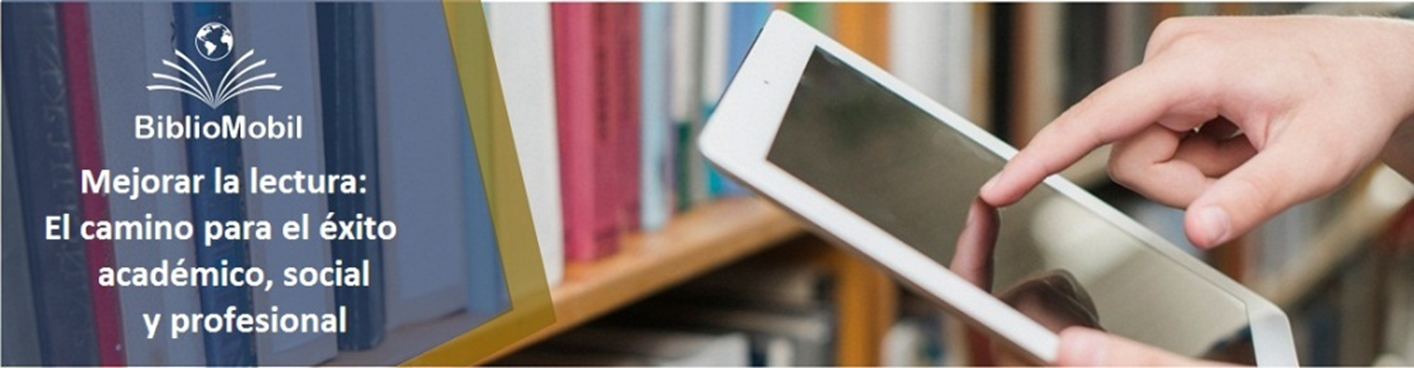
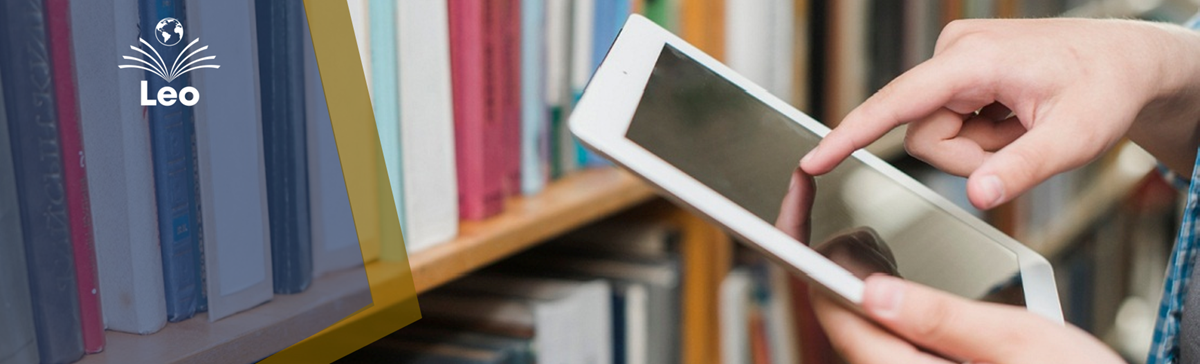
OK!

diff --git a/src/view/acercaDe/AcercaDe.jsx b/src/view/acercaDe/AcercaDe.jsx
@@ -57,11 +57,11 @@ export default function AcercaDe() {
             </h3>
             <br />
             <p>
-           <b> Hay una ley universal del desarrollo: todo progreso y bienestar de una sociedad, depende de la calidad de la educación que recibe su población.</b> Por ello, los países más desarrollados, tienen como prioridad contar con sistemas educativos modernos y eficientes, que fortalezcan los conocimientos y la competitividad de sus habitantes. Así lo demuestran las pruebas internacionales PISA de la OCDE, que ubican en los primeros lugares a países de altos ingresos con los mejores sistemas educativos del mundo: Singapur, Canadá, China, Finlandia, Hong Kong, Estonia, Japón y Corea del Sur.            </p>
+            Hay una ley universal del desarrollo: todo progreso y bienestar de una sociedad, depende de la calidad de la educación que recibe su población. Por ello, los países más desarrollados, tienen como prioridad contar con sistemas educativos modernos y eficientes, que fortalezcan los conocimientos y la competitividad de sus habitantes. Así lo demuestran las pruebas internacionales PISA de la OCDE, que ubican en los primeros lugares a países de altos ingresos con los mejores sistemas educativos del mundo: Singapur, Canadá, China, Finlandia, Hong Kong, Estonia, Japón y Corea del Sur.            </p>
             <p>
-            <b>LEO - Club Mundial de Lectura,</b> es un proyecto social que tiene como misión promover la lectura, la escritura y el multilingüismo, como hábitos que mejoran el nivel educativo y cultural de las personas, y fortalecen sus competencias comunicativas, necesarias para tener éxito en su actividad académica y en la moderna sociedad integrada a nivel mundial por la internet, que exige leer y aprovechar cantidades crecientes de información, y escribir contenidos claros y convincentes para millones de personas en todo el mundo.            </p>
+            LEO - Club Mundial de Lectura, es un proyecto social que tiene como misión promover la lectura, la escritura y el multilingüismo, como hábitos que mejoran el nivel educativo y cultural de las personas, y fortalecen sus competencias comunicativas, necesarias para tener éxito en su actividad académica y en la moderna sociedad integrada a nivel mundial por la internet, que exige leer y aprovechar cantidades crecientes de información, y escribir contenidos claros y convincentes para millones de personas en todo el mundo.            </p>
             <p>
-            Para cumplir esta misión, <b>LEO</b> opera como una red digital mundial, que integra a las personas de todos los países para fortalecer sus competencias comunicativas, y generar oportunidades de ingreso permanentes que mejoren su calidad de vida
+            Para cumplir esta misión, LEO opera como una red digital mundial, que integra a las personas de todos los países para fortalecer sus competencias comunicativas, y generar oportunidades de ingreso permanentes que mejoren su calidad de vida
             </p>
             <br />
 
@@ -73,7 +73,7 @@ export default function AcercaDe() {
             <br />      
             <p>
             • Facilitar el acceso a los libros e incrementar los índices de lectura, para lograr que todas las personas lean al menos un libro al mes, doce libros al año. <br />
-            • Ofrecer escenarios para que los <b>Socios LEO</b> escriban y publiquen sus obras en los diferentes géneros, dándolas a conocer en el país y el mundo. <br />
+            • Ofrecer escenarios para que los Socios LEO escriban y publiquen sus obras en los diferentes géneros, dándolas a conocer en el país y el mundo. <br />
             • Promover el multilingüismo y las competencias comunicativas de las personas, para mejorar sus posibilidades de participación y éxito en la moderna sociedad tecnológica, a través de internet. <br />
             • Fortalecer a las familias y las instituciones educativas como escenarios básicos para inculcar el hábito de lecto-escritura en los estudiantes.
 
@@ -99,7 +99,7 @@ export default function AcercaDe() {
                 </div> 
                 <br />
                 <p>
-                <b>Pueden ser socios del Club Mundial de Lectura</b> todas las personas y los <b>estudiantes en cualquier país del  mundo.</b> Los menores de edad deberán contar con autorización y tutoría de sus padres o acudientes, anexando el formato de autorización de vinculación. <br />
+                Pueden ser socios del Club Mundial de Lectura todas las personas y los estudiantes en cualquier país del  mundo. Los menores de edad deberán contar con autorización y tutoría de sus padres o acudientes, anexando el formato de autorización de vinculación. <br />
                 La membrecía anual tiene un costo de solo US$50. Los socios tienen acceso libre, permanente y gratuito a las 15.000 obras de literatura y ciencias sociales en cinco idiomas de nuestra biblioteca y a los demás programas educativos y culturales del Club (publicar obras, taller literario, etc.)
 
             </p>
@@ -112,7 +112,7 @@ export default function AcercaDe() {
             </b> 
             </h3>
             <br />
-            <p> <b>LEO</b> ha desarrollado un paquete de herramientas pedagógicas con tecnologías web, que permiten en forma eficiente y económica promover y masificar la lectura, la escritura y el multilingüismo como competencias clave para mejorar el desempeño académico y lograr que las personas aprovechen las oportunidades de contactos, educación y negocios que ofrece internet a nivel mundial:
+            <p> LEO ha desarrollado un paquete de herramientas pedagógicas con tecnologías web, que permiten en forma eficiente y económica promover y masificar la lectura, la escritura y el multilingüismo como competencias clave para mejorar el desempeño académico y lograr que las personas aprovechen las oportunidades de contactos, educación y negocios que ofrece internet a nivel mundial:
             </p>
            
 
@@ -121,13 +121,13 @@ export default function AcercaDe() {
             </h4> 
             <br />  
             <p>
-            <b>LEO</b> ofrece a sus socios una biblioteca digital con más de 15.000 obras de ciencias sociales y literatura en 5 idiomas (español, inglés, francés, portugués e italiano). Mensualmente, se adicionan 50 nuevas obras, 600 nuevos libros al año. Los socios pueden descargar clubleo.net a su celular, tablet o pc, para facilitar el acceso a las obras. El costo de la colección bibliográfica está calculado en US$150.000, pero es gratis para los socios LEO. (Ver Catálogo) <br />
+            LEO ofrece a sus socios una biblioteca digital con más de 15.000 obras de ciencias sociales y literatura en 5 idiomas (español, inglés, francés, portugués e italiano). Mensualmente, se adicionan 50 nuevas obras, 600 nuevos libros al año. Los socios pueden descargar clubleo.net a su celular, tablet o pc, para facilitar el acceso a las obras. El costo de la colección bibliográfica está calculado en US$150.000, pero es gratis para los socios LEO. (Ver Catálogo) <br />
             Los socios que viven en zonas rurales y marginales sin conexión a internet, pueden descargar y grabar las obras en su PC, celular o tablet para su lectura y trabajo sin necesidad de internet. <br />
             Adicionalmente, LEO ha desarrollado el portal web letsallread.com, que ofrece artículos sobre los géneros, autores y obras más importantes, con el propósito de informar, motivar y orientar las actividades de lectura y escritura que realizan nuestros socios.
 
             </p>
 
-            <div align="center">
+            <div className="container_bannernos"  align="center">
                 <img
                 id="imagenajustada"
                 className="d-block w-100"
@@ -136,6 +136,10 @@ export default function AcercaDe() {
                 height="450"
                 alt="..."
                 />
+                <p> <b>Mejorar la lectura; <br />
+                el camino para el éxito acádemico <br />
+                social y profesional</b>
+                </p>
                 </div>
             <br />
             <h4 id="titulo" align="left"> <b>2. Promoción de la escritura<br />

diff --git a/src/view/uniscitiANoi/UniscitiANoi.jsx b/src/view/uniscitiANoi/UniscitiANoi.jsx
@@ -79,12 +79,12 @@ export default function UniscitiANoi() {
 
             <br />
             <p>
-            1. Quando ci iscriviamo come partner, creiamo il nostro nome utente e password; il programma crea automaticamente "Il mio account" per tenere traccia dei nostri ospiti e delle entrate in tempo reale.
-            2. Invitiamo i nostri conoscenti ad entrare come membri LEO, fornendo loro il nostro nome utente o inviando loro ai loro social network il link personale che il sistema genera per noi
-            3. Al momento dell'ingresso, gli ospiti registrano il nostro nome utente; e il sistema li accumula nel nostro account, fino a completare i 20 richiesti. Dopodiché, l'elenco si chiude e non saremo in grado di continuare a invitare altre persone.
-            4. Nella prima fase, al completamento dei 20 ospiti, riceveremo un deposito di US $ 100 sul nostro conto
-            5. Nella seconda fase, quando i nostri 20 partner completeranno ciascuno i loro 20 ospiti, riceveremo un reddito di 3.200 USD
-            6. Nella terza fase, quando i nuovi membri invitano i loro 20 amici, riceveremo 96.000 USD, ovvero una media mensile di 8.275 USD
+            1. Quando ci iscriviamo come partner, creiamo il nostro nome utente e password; il programma crea automaticamente "Il mio account" per tenere traccia dei nostri ospiti e delle entrate in tempo reale. <br />
+            2. Invitiamo i nostri conoscenti ad entrare come membri LEO, fornendo loro il nostro nome utente o inviando loro ai loro social network il link personale che il sistema genera per noi. <br />
+            3. Al momento dell'ingresso, gli ospiti registrano il nostro nome utente; e il sistema li accumula nel nostro account, fino a completare i 20 richiesti. Dopodiché, l'elenco si chiude e non saremo in grado di continuare a invitare altre persone. <br />
+            4. Nella prima fase, al completamento dei 20 ospiti, riceveremo un deposito di US $ 100 sul nostro conto. <br />
+            5. Nella seconda fase, quando i nostri 20 partner completeranno ciascuno i loro 20 ospiti, riceveremo un reddito di 3.200 USD. <br />
+            6. Nella terza fase, quando i nuovi membri invitano i loro 20 amici, riceveremo 96.000 USD, ovvero una media mensile di 8.275 USD. <br />
 
             </p>
             <p>

diff --git a/src/view/chiSiamo/ChiSiamo.jsx b/src/view/chiSiamo/ChiSiamo.jsx
@@ -128,7 +128,7 @@ export default function AcercaDe() {
             Inoltre, LEO ha sviluppato il portale web letsallread.com, che offre articoli sui generi, gli autori e le opere più importanti, con lo scopo di informare, motivare e guidare le attività di lettura e scrittura svolte dai nostri membri.
             </p>
 
-            <div align="center">
+            <div className="container_bannernos"  align="center">
                 <img
                 id="imagenajustada"
                 className="d-block w-100"
@@ -137,7 +137,13 @@ export default function AcercaDe() {
                 height="450"
                 alt="..."
                 />
+                <p><b>Migliorare la lettura; <br />
+                Il percorso verso il successo <br />
+                accademico, Sociale e<br />
+                Professionale</b>
+                </p>
                 </div>
+                <br />
 
             <h4 id="titulo" align="left"> <b>2. Promozione della scrittura
 

diff --git a/src/view/sobreNos/SobreNos.jsx b/src/view/sobreNos/SobreNos.jsx
@@ -131,7 +131,7 @@ export default function SobreNos() {
             Além disso, a LEO desenvolveu o portal web letsallread.com, que oferece artigos sobre os gêneros, autores e obras mais importantes, com o objetivo de informar, motivar e orientar as atividades de leitura e escrita realizadas por nossos membros.
             </p>
 
-            <div align="center">
+            <div className="container_bannernos"  align="center">
                 <img
                 id="imagenajustada"
                 className="d-block w-100"
@@ -140,7 +140,12 @@ export default function SobreNos() {
                 height="450"
                 alt="..."
                 />
+                <p><b>Melhorar a leitura; <br />
+                O caminho para o sucesso académico <br />
+                Social e Profissional</b>
+                </p>
                 </div>
+                <br />
 
             <h4 id="titulo" align="left"> <b>2. Promoção da escrita
 

diff --git a/src/view/aProposDeNous/AProposDeNous.jsx b/src/view/aProposDeNous/AProposDeNous.jsx
@@ -128,7 +128,7 @@ export default function AProposDeNous() {
 
             </p>
 
-            <div align="center">
+            <div className="container_bannernos"  align="center">
                 <img
                 id="imagenajustada"
                 className="d-block w-100"
@@ -137,6 +137,10 @@ export default function AProposDeNous() {
                 height="450"
                 alt="..."
                 />
+                <p><b>Améliorer la lecture; <br />
+                Le chemin vers la réussite scolaire <br />
+                Social et professionnel</b>
+                </p>
                 </div>
 
             <h4 id="titulo" align="left"> <b>2. Promotion de l’écriture

diff --git a/src/view/aboutUs/AboutUs.jsx b/src/view/aboutUs/AboutUs.jsx
@@ -122,7 +122,7 @@ export default function AboutUs() {
 
             </p>
 
-            <div align="center">
+            <div className="container_bannernos"  align="center">
                 <img
                 id="imagenajustada"
                 className="d-block w-100"
@@ -131,6 +131,10 @@ export default function AboutUs() {
                 height="450"
                 alt="..."
                 />
+                <p><b>Improve reading; <br />
+                The Path to Academic Success <br/>
+                Social and Professional</b>
+                </p>
                 </div>
                 <br />
 

diff --git a/src/view/acercaDe/AcercaDe.css b/src/view/acercaDe/AcercaDe.css
@@ -64,3 +64,26 @@
 
 
 }
+
+.container_bannernos{
+  height: 50vh;
+  width: 100%;
+  position: relative;
+
+}
+
+.container_bannernos img{
+  height: 100%;
+  width: 100%;
+
+}
+
+.container_bannernos p{
+  position: absolute;
+  color: white;
+  top: 35%;
+  right: 67%;
+  transform: translate(-0%, -0%);
+  font-size: 140%;
+}
+
